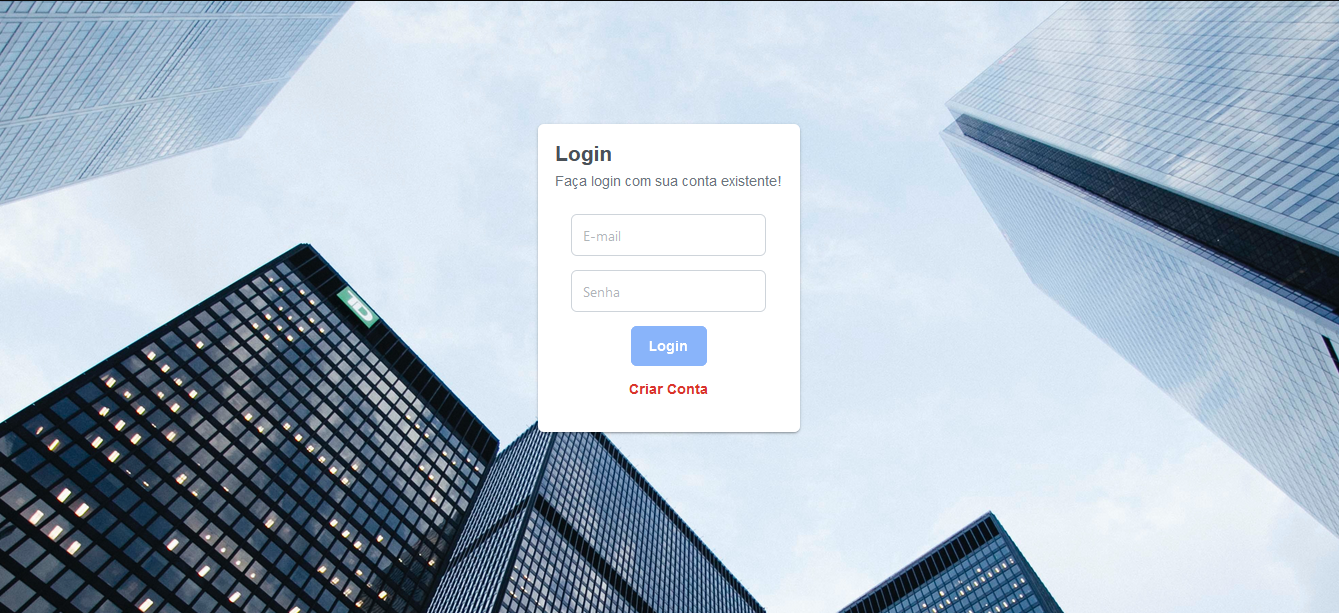
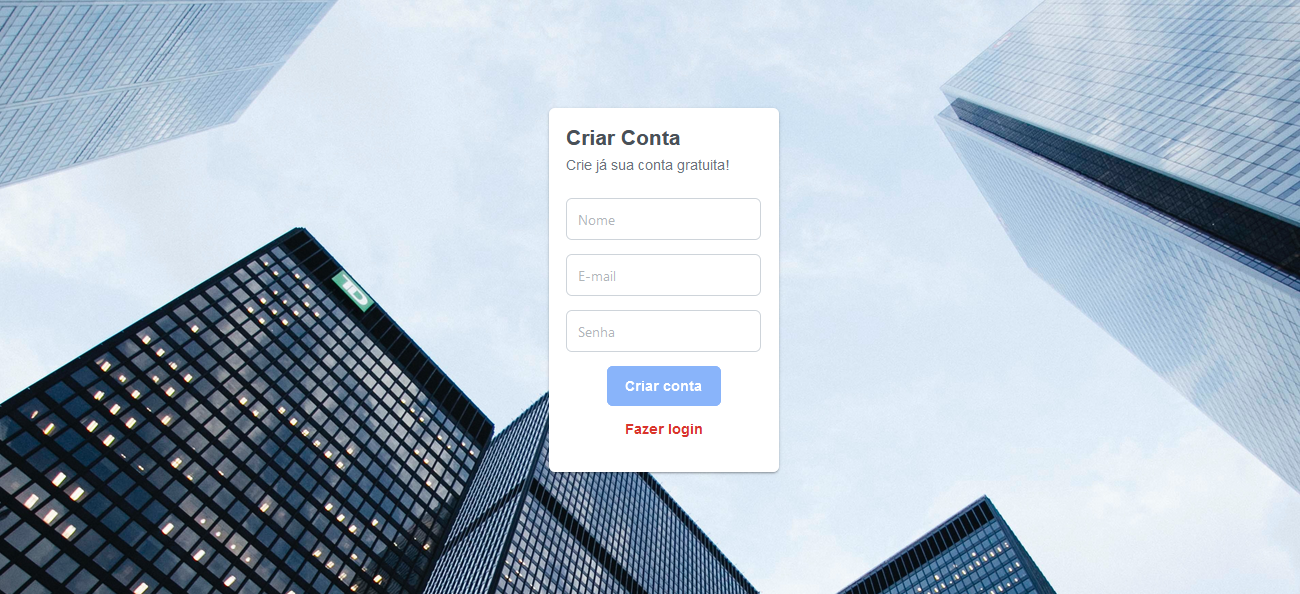
doc: criação da documentação do projeto

diff --git a/README.md b/README.md
@@ -1,27 +1,88 @@
-# StockControl
+# Controle de Estoque
 
-This project was generated with [Angular CLI](https://github.com/angular/angular-cli) version 15.2.10.
+Este projeto é uma aplicação Angular para controle de estoque. Ele abrange todo o processo de gerenciamento de estoque, desde o cadastro de usuários até a manipulação de produtos e categorias.
+Funcionalidades
 
-## Development server
+### Autenticação de Usuário:
+        Usuários podem se cadastrar e fazer login.
+        Após o login, são direcionados para o dashboard.
 
-Run `ng serve` for a dev server. Navigate to `http://localhost:4200/`. The application will automatically reload if you change any of the source files.
+### Dashboard:
+        Exibe um gráfico com produtos cadastrados que possuem quantidade maior ou igual a 1.
 
-## Code scaffolding
+### Gerenciamento de Produtos:
+        Na tela /products, uma tabela lista todos os produtos cadastrados com quantidade maior ou igual a 1.
+        Possibilidade de adicionar, editar ou remover produtos.
 
-Run `ng generate component component-name` to generate a new component. You can also use `ng generate directive|pipe|service|class|guard|interface|enum|module`.
+### Gerenciamento de Categorias:
+        Na tela /categories, uma tabela lista todas as categorias cadastradas.
+        Possibilidade de adicionar, editar ou remover categorias.
 
-## Build
+### Tecnologias Utilizadas
 
-Run `ng build` to build the project. The build artifacts will be stored in the `dist/` directory.
+    Angular
+    TypeScript
+    HTML/CSS
 
-## Running unit tests
 
-Run `ng test` to execute the unit tests via [Karma](https://karma-runner.github.io).
+### Versões usada:
 
-## Running end-to-end tests
+```json
+Angular CLI: 15.2.11
+Node: 18.16.0
+Package Manager: npm 9.5.1
+```
 
-Run `ng e2e` to execute the end-to-end tests via a platform of your choice. To use this command, you need to first add a package that implements end-to-end testing capabilities.
+# Stock Api
+O back-end foi desenvolvido em NodeJs. Para que consiga usar o front-end. é necessário fazer o clone do back-end que esta nesse repositóro: https://github.com/giljrsantos/stock-api-node-js
 
-## Further help
+### Dependencias
+Foram usada essas dependências externas abaixo, para deixar o front-end como o layout responsivo.
+```json
+    "chart.js": "^4.4.3",
+    "ngx-cookie-service": "^15.0.0",
+    "primeflex": "^3.3.1",
+    "primeicons": "^5.0.0",
+    "primeng": "^15.4.1",
+```
 
-To get more help on the Angular CLI use `ng help` or go check out the [Angular CLI Overview and Command Reference](https://angular.io/cli) page.
+### Screnn 1:  Entrando no sistema
+<img src="src\assets\img\screen_0.png" width="100%">
+
+### Screnn 2:  Login Errado
+<img src="src\assets\img\screen_2.png" width="100%">
+
+### Screnn 3:  Criando uma nova Conta
+<img src="src\assets\img\screen_15.png" width="100%">
+
+### Screnn 4:  Dashboard - Gráfico Produtos Com Estoque Positivo
+<img src="src\assets\img\screen_3.png" width="100%">
+
+### Screnn 5:  Produtos - Tabela Produtos Com Estoque Positivo
+<img src="src\assets\img\screen_4.png" width="100%">
+
+### Screnn 6:  Produtos - Adicionando um novo Produto
+<img src="src\assets\img\screen_5.png" width="100%">
+
+### Screnn 7:  Produtos - Editando produto
+<img src="src\assets\img\screen_8.png" width="100%">
+
+### Screnn 8:  Produtos - Removendo Produto
+<img src="src\assets\img\screen_13.png" width="100%">
+
+### Screnn 9:  Produtos - Vendendo Produto
+<img src="src\assets\img\screen_14.png" width="100%">
+
+### Screnn 10:  Categoria - Tabela Categoria Cadastradas
+<img src="src\assets\img\screen_9.png" width="100%">
+
+### Screnn 11:  Categoria - Adicionando uma nova categoria
+<img src="src\assets\img\screen_10.png" width="100%">
+
+### Screnn 12:  Categoria - Editando categoria
+<img src="src\assets\img\screen_11.png" width="100%">
+
+### Screnn 13:  Categoria - Removendo Categoria
+<img src="src\assets\img\screen_12.png" width="100%">
+
+<h1 align="center">💻 Desenvolvido Por: Gilberto Júnior</h1>
